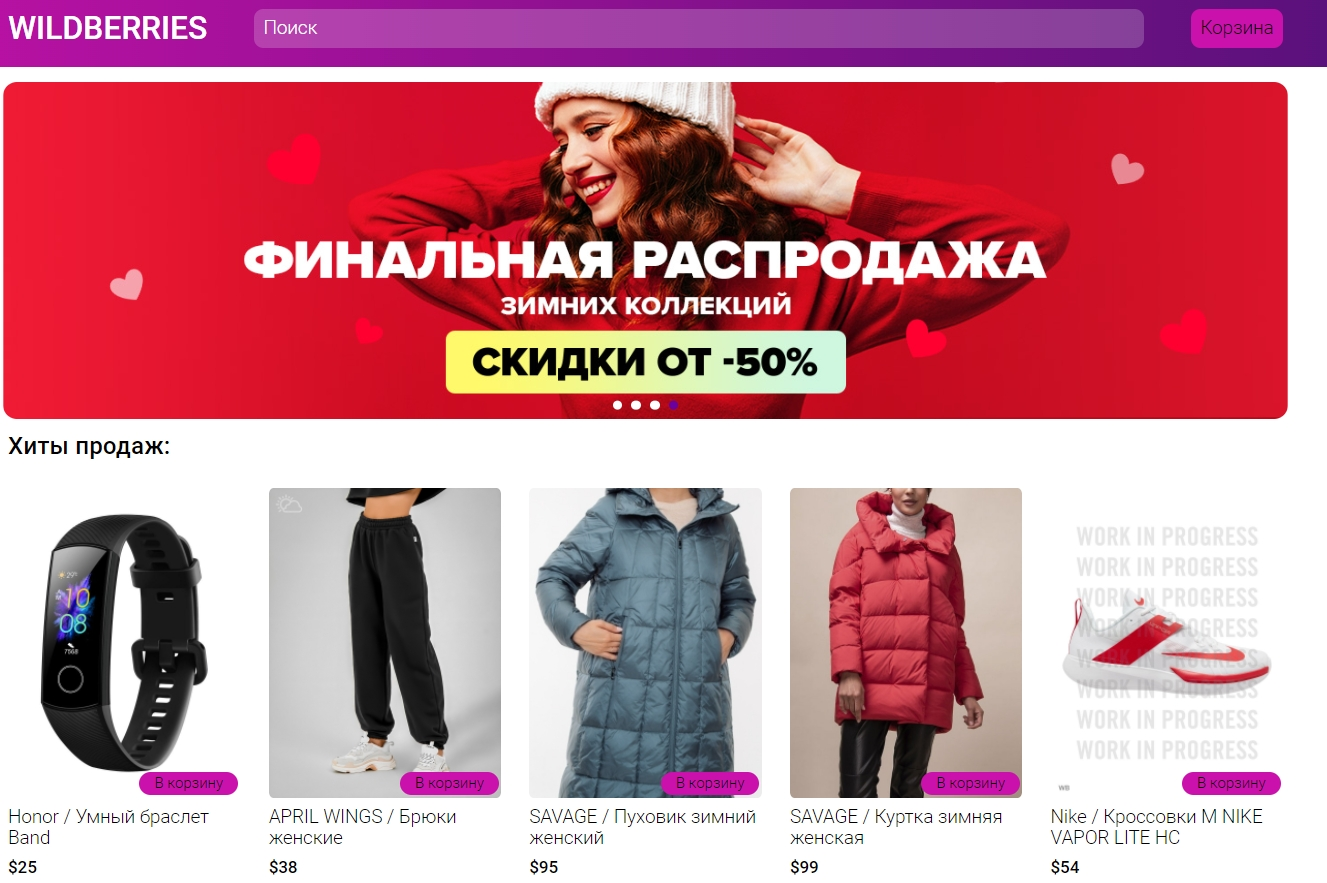
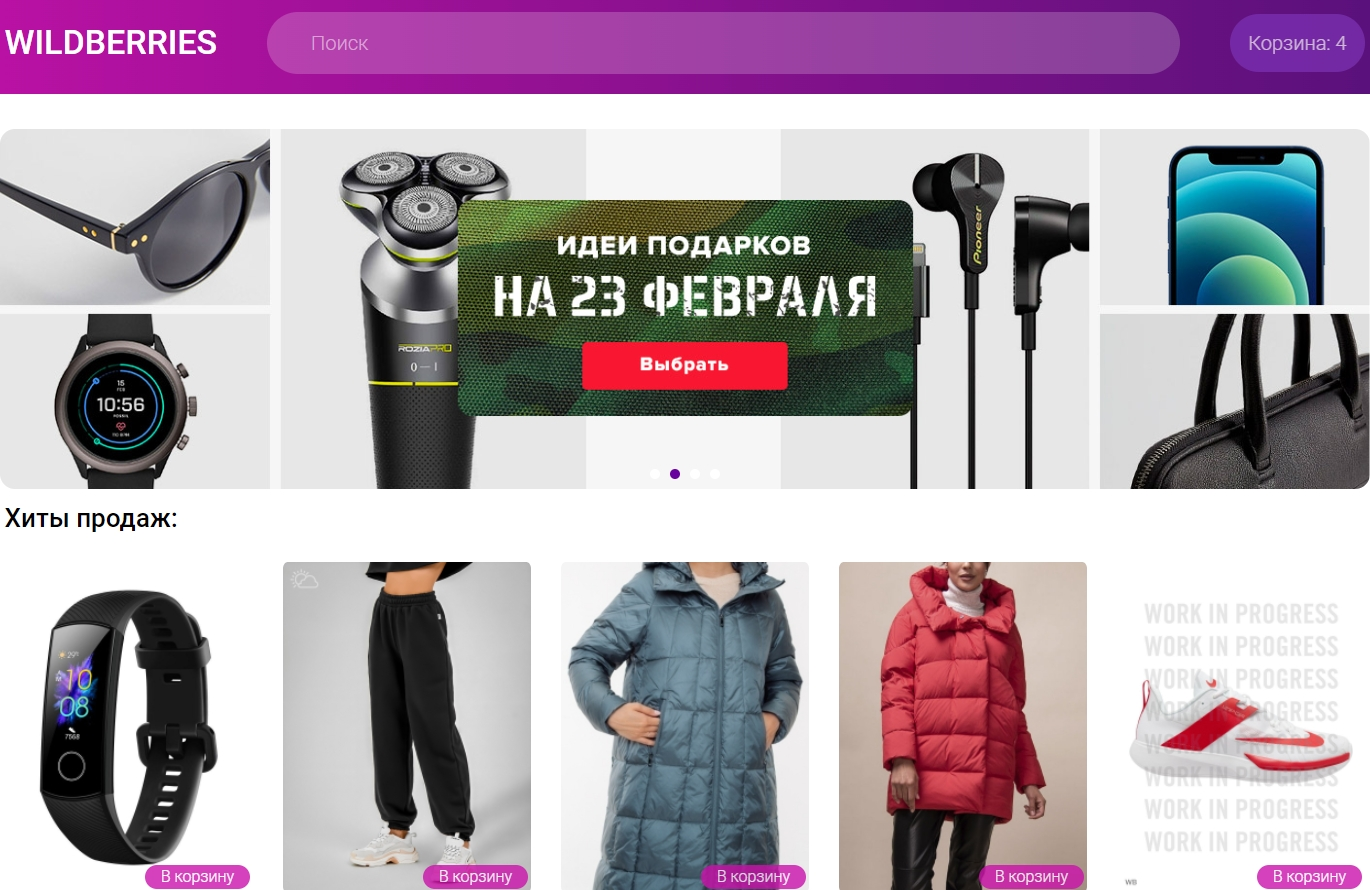
fix(dev-YB-25): change wildberries image, formatting text

diff --git a/README.md b/README.md
@@ -64,25 +64,25 @@
 
     [<img height="170" alt="Корзина" width="500" src="https://github.com/Tsygan-Aleksey/youngBerries/blob/dev-YB-25/readME-image/basket.jpg"/>]()
     
-   Модальное окне с товарами:
+   Модальное окно с товарами:
   
     - Здесь отображается наименование товара, его цена, количество и общая сумма всех товаров.
-    - Кнопки для увеличения и уменьшения количества товаров, кро этого можно удалить тот или иной товар, либо очистить корзину полность.
-    - После перезгрузки сайта, данные в корзине останутся без изменений, это позволит Вам в любой момент вернуться к зазазу.
+    - Кнопки для увеличения и уменьшения количества товаров, кроме этого можно удалить тот или иной товар, либо очистить корзину полностью.
+    - После перезагрузки сайта, данные в корзине останутся без изменений, это позволит Вам в любой момент вернуться к заказу.
 
 ## Слайдер
 
 [<img alt="слайдер" src="https://github.com/Tsygan-Aleksey/youngBerries/blob/dev-YB-25/readME-image/slider.jpg"/>]()
 
-Слева и справа есть кнопки для переключения между слайдами. Внизу слайдера по центр есть кнопки в виде точек, для быстрого переключения к интересующему Вас слайду
+Слева и справа есть кнопки для переключения между слайдами. Внизу слайдера по центру есть кнопки в виде точек, для быстрого переключения к интересующему Вас слайду
 
 ## Карточки товаров
 
-Под слайдером находится раздел Хиты продаж, в котором располагаются товары
+Под слайдером находится раздел "Хиты продаж", в котором располагаются товары
 
 [<img alt="карточки" height="" src="https://github.com/Tsygan-Aleksey/youngBerries/blob/dev-YB-25/readME-image/cards.jpg" width=""/>]() 
 
-- У каждой карточки товара есть наименвание, цена и изоброжение
+- У каждой карточки товара есть наименование, цена и изображение
 - На карточке есть кнопка "В корзину" для быстрого добавления товара в корзину
 - Для более подробной информации о товаре, можно навести на карточку и нажать кнопку "быстрый просмотр", откроется модальное окно с более подробной информацией.
 
@@ -90,13 +90,13 @@
 
 [<img height="500" width="300" alt="быстрый просмотр" src="https://github.com/Tsygan-Aleksey/youngBerries/blob/dev-YB-25/readME-image/quick-view.jpg"/>]()
 
-Окно быстрого просмотра представляет собой увеличенную карточку товара c информацией о ней. В перспективе в данном окне будет появляться более подробная информация о товаре.
+Окно быстрого просмотра представляет собой увеличенную карточку товара с информацией о ней. В перспективе в данном окне будет появляться более подробная информация о товаре.
 
 ## Тост
 
 [<img alt="тост" height="100" width="500" src="https://github.com/Tsygan-Aleksey/youngBerries/blob/dev-YB-25/readME-image/toast.jpg"/>]()
 
-Так же на проекте реализован тост. Тост — это ненавязчивое уведомление, имитирующие push-уведомления. В проекте тост несет в себе информацию он том, кем был созда сайт. Оно появляется спусня 15 секунд после загрузки сайта
+Так же на проекте реализован тост. Тост — это ненавязчивое уведомление, имитирующие push-уведомления. В проекте тост несет в себе информацию он том, кем был создан сайт. Оно появляется спустя 15 секунд после загрузки сайта
 
 На нашем проекте мы использовали
 
